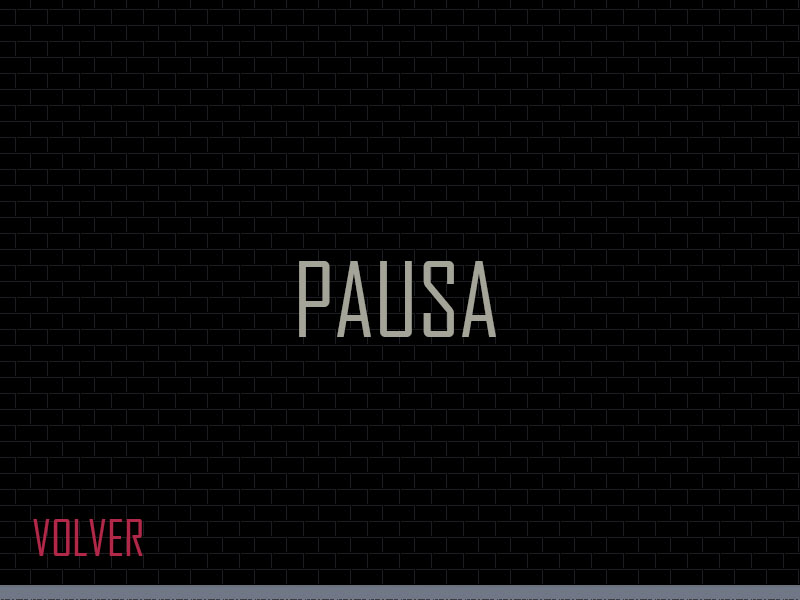
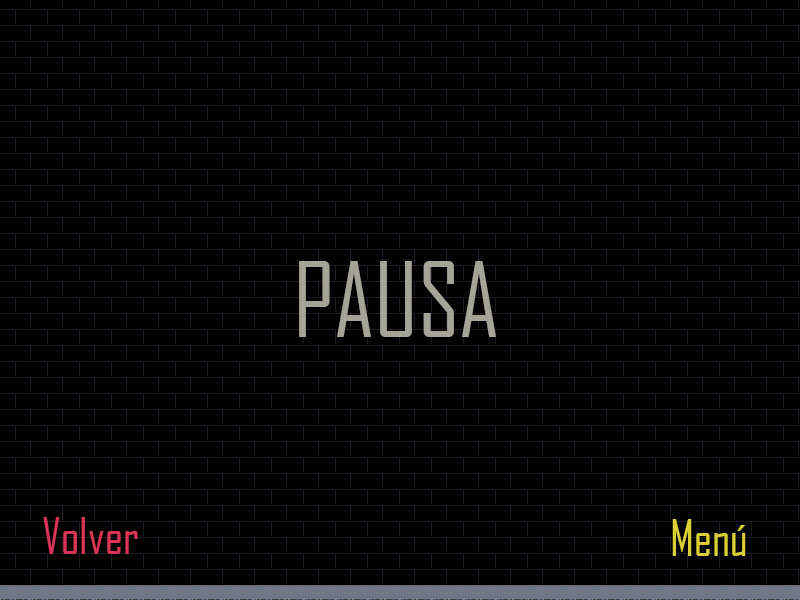
Interfaces corregidas y ahora se puede ir desde la pausa al menu de inicio

Changed region(s): [[0.0312, 0.84, 0.1875, 0.93], [0.8125, 0.87, 0.9375, 0.93]]

diff --git a/Scene7.js b/Scene7.js
@@ -10,14 +10,18 @@ class Scene7 extends Phaser.Scene{
     {
         this.load.image('pausa','/Recursos/Interfaz/pausa.jpg');//imagen de cuando estamos en la escena de pausa
         this.load.image('botonPausaEncima','/Recursos/Interfaz/botonPausaEncima.jpg');//imagen cuando el ratón esá sobre el botón
+        this.load.image('botonMenuEncima','/Recursos/Interfaz/botonMenuEncima.jpg');//imagen cuando el ratón esá sobre el botón
 
     }
 
     create(){
-        const botonVolver = this.add.text(config.width/8, 7*config.height/8,"Menu",{font:"80px Courier", fill:"white"}).setOrigin(0.5,0.5);
+        const botonVolver = this.add.text(50, 530,"Atras",{font:"30px Courier", fill:"Red"});
+        const botonMenu = this.add.text(680,530,"Menú",{font:"30px Courier", fill:"White"}); //cremos el botón de pausa
         this.add.image(400, 300,'pausa');//añade la imagen
-
+        
         botonVolver.setInteractive();
+        botonMenu.setInteractive();
+        //cuando le damos cambiamos a la escena de pausa, paramos la música y esta escena
         
         //Distintas interaciones (pulsarlo,estar sobre él y dejar de estar sobre él)
         //Al poner el ratón sobre el botón la imagen cambia a otra que tiene las letras de dicho botón de otro color
@@ -26,5 +30,21 @@ class Scene7 extends Phaser.Scene{
         botonVolver.on('pointerdown', () => { this.scene.resume("Juego"); this.scene.stop(); musica.resume(); sonidoCuentaAtras.resume();});
         botonVolver.on('pointerover', () => {this.add.image(400, 300,'botonPausaEncima'); });
         botonVolver.on('pointerout', () => {this.add.image(400, 300,'pausa'); });
+
+        botonMenu.on('pointerdown', () => {this.scene.stop("Juego"); this.gameOver();
+        this.scene.stop(); this.scene.start("Menu"); });
+        botonMenu.on('pointerover', () => {this.add.image(400, 300,'botonMenuEncima'); });
+        botonMenu.on('pointerout', () => {this.add.image(400, 300,'pausa'); });
+    }
+    gameOver ()
+    {   
+        musica.stop();
+        objetoCogido=false;
+        objetoCogido2=false;
+        generarPowerUp1 = Phaser.Math.Between(40, 30);
+        generarPowerUp2 = Phaser.Math.Between(20, 5);
+        colisionPowerUp=false;
+        colisionPowerUp2=false;
+        pU.x+=50;
     }
 }

diff --git a/Scene3.js b/Scene3.js
@@ -41,6 +41,7 @@ class Scene3 extends Phaser.Scene{
         botonPausa.setInteractive();
         //cuando le damos cambiamos a la escena de pausa, paramos la música y esta escena
         botonPausa.on('pointerdown', () => { this.scene.pause(); musica.pause(); this.scene.launch("Pausa"); sonidoCuentaAtras.pause();}); 
+ 
 
         plataformas = this.physics.add.staticGroup(); //crea un nuevo grupo de elementos estáticos y lo asigna a la variable plataformas
         //hemos creado plataformas con el alpha a 0 para que fuesen invisibles pero cumpliesen su función de colisionar con el jugador

diff --git a/Scene4.js b/Scene4.js
@@ -17,9 +17,10 @@ class Scene4 extends Phaser.Scene{
         musica2.resume();//la musica sigue por donde se quedó al salir del menú
 
         //creamos el botón
-        const botonAtras = this.add.text(config.width/8, 7*config.height/8,"Atras",{font:"80px Courier", fill:"Red"}).setOrigin(0.5,0.5);
+        const botonAtras = this.add.text(90, 540,"Atras",{font:"30px Courier", fill:"Red"}).setOrigin(0.5,0.5);
         
         this.add.image(400, 300,'comoJugar');//añadimos la imagen
+        
 
         botonAtras.setInteractive();
 

diff --git a/Scene5.js b/Scene5.js
@@ -16,8 +16,9 @@ class Scene5 extends Phaser.Scene{
     create(){
         musica3=this.sound.add('celebracion');//añade el sonido
         musica3.play();//activa el sonido
-        const botonMenu = this.add.text(config.width/8, 7*config.height/8,"Menu",{font:"80px Courier", fill:"white"}).setOrigin(0.5,0.5);
+        
         this.add.image(400, 300,'ganador1');//añadde la imagen
+        const botonMenu = this.add.text(90, 540,"Atras",{font:"30px Courier", fill:"Red"}).setOrigin(0.5,0.5);
 
         botonMenu.setInteractive();
 

diff --git a/Scene6.js b/Scene6.js
@@ -17,8 +17,8 @@ class Scene6 extends Phaser.Scene{
     create(){
         musica3=this.sound.add('celebracion2');//añade el sonido
         musica3.play();//activa la música
-        const botonMenu = this.add.text(config.width/8, 7*config.height/8,"Menu",{font:"80px Courier", fill:"white"}).setOrigin(0.5,0.5);
         this.add.image(400, 300,'ganador2');//añade la imagen
+        const botonMenu = this.add.text(90, 540,"Atras",{font:"30px Courier", fill:"Red"}).setOrigin(0.5,0.5);
 
         botonMenu.setInteractive();
         

diff --git a/index.html b/index.html
@@ -73,7 +73,7 @@
                 var onWallRight = false;// para saber si el gato 2 se ha chocado por la derecha
                 var onWallLeft1 = false;// para saber si el gato 1 se ha chocado por la izquierda
                 var onWallRight1 = false;// para saber si el gato 1 se ha chocado por la derecha
-
+                
         </script>
 
 </body>
